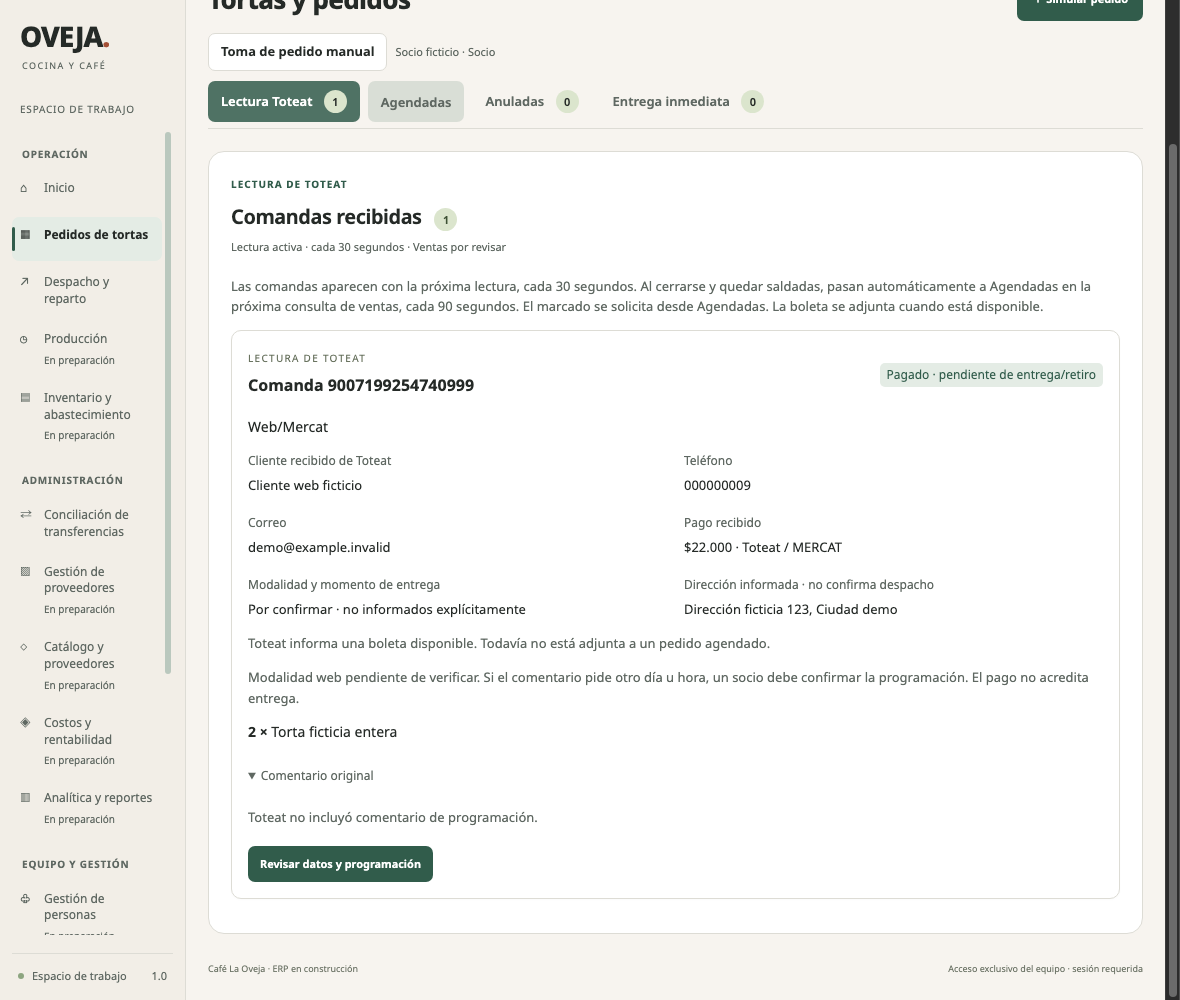
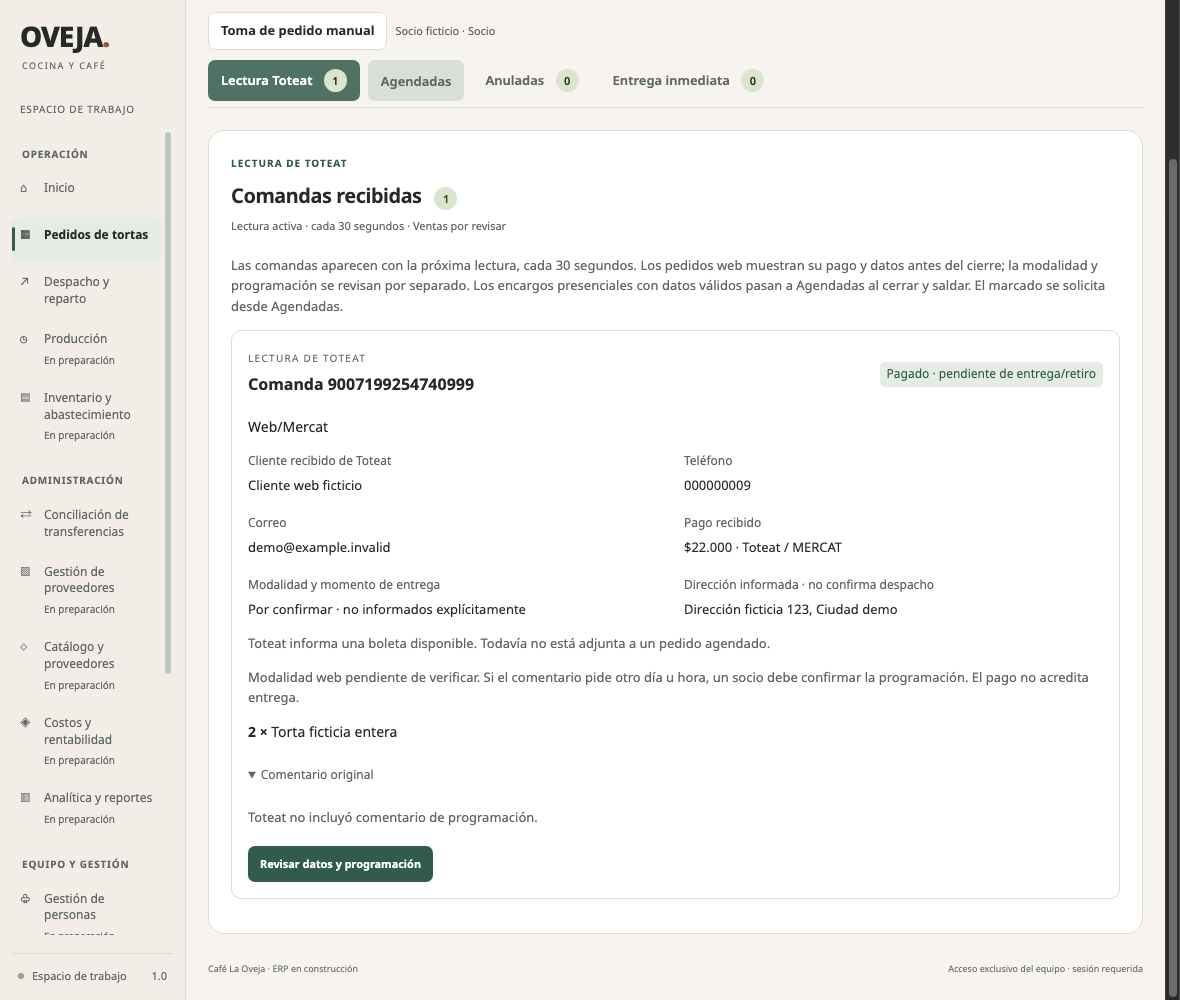
Keep delivery fee month changes separate from cake delivery filters

diff --git a/static/index.html b/static/index.html
@@ -48,7 +48,7 @@
     <header class="topbar"><div class="breadcrumb">OVEJA <span>/</span> <strong id="breadcrumb-module">Tortas y pedidos</strong></div><button id="account-button" class="account-summary" aria-label="Mi cuenta y cerrar sesión"><strong id="account-name"></strong><span id="account-role"></span></button><div class="notification-anchor"><button id="notification-bell" class="notification-bell" aria-label="Solicitudes de marcado: 0 pendientes" aria-expanded="false" aria-controls="notification-popup"><svg width="22" height="22" viewBox="0 0 24 24" fill="none" stroke="currentColor" stroke-width="1.7" aria-hidden="true"><path d="M18 8a6 6 0 0 0-12 0c0 7-3 7-3 9h18c0-2-3-2-3-9Z"/><path d="M10 21h4"/></svg><span id="notification-badge" class="notification-badge hidden">0</span></button><section id="notification-popup" class="notification-popup hidden" aria-labelledby="notification-title"><div class="notification-heading"><div><h2 id="notification-title">Solicitudes de marcado</h2><p id="notification-summary" aria-live="polite">Sin solicitudes pendientes</p></div><button id="notification-close" class="icon-button" aria-label="Cerrar notificaciones">×</button></div><div class="notification-settings"><button id="notification-sound" class="text-button" aria-pressed="false">Activar sonido</button><span id="notification-audio-status">Requiere activarlo en esta pestaña</span></div><div id="notification-list"></div><p id="notification-update-status" class="hint">Se actualiza cada 15 segundos.</p><p class="hint">Abrir una solicitud no marca la torta. Sigue pendiente hasta confirmar el marcado.</p></section></div></header>
     <main id="main">
       <nav id="module-mobile" class="module-mobile" aria-label="Módulos del ERP"></nav>
-      <section id="module-placeholder" class="module-placeholder hidden" aria-labelledby="module-title"><div class="eyebrow">ERP OVEJA · COCINA Y CAFÉ</div><h1 id="module-title"></h1><p class="module-subtitle">Un espacio para cada parte del negocio.</p><nav id="module-subtabs" class="module-subtabs" aria-label="Secciones del módulo"></nav><div id="home-workspace" class="hidden"></div><div id="delivery-workspace" class="hidden"><form id="delivery-filter" class="delivery-filter"><label class="field">Mes de consulta<input name="month" type="month" min="2026-09" required></label><button class="button primary" type="submit">Actualizar importes ↻</button><span id="delivery-sync-note" class="hint" role="status"></span></form><div id="delivery-results" aria-live="polite"></div></div><div id="transfer-workspace" class="hidden"><form id="transfer-filter" class="transfer-filters"><label>Desde<input name="start" type="date"></label><label>Hasta<input name="end" type="date"></label><label>Estado<select name="status"><option value="all">Todas las revisiones</option><option value="pending">Pendientes de revisión</option><option value="compatible">Datos compatibles</option><option value="review">Requieren revisión · todas</option><option value="reviewed">Revisadas por socio</option></select></label><label>Cajera<select name="cashier"><option value="">Todas las cajeras</option></select></label><button class="button secondary" type="submit">Actualizar</button><button class="button secondary" type="button" id="transfer-export">Descargar CSV</button></form><div id="transfer-results" aria-live="polite"></div></div><div class="module-empty"><div class="module-empty-icon" aria-hidden="true">▦</div><span class="timing-label">En preparación</span><h2 id="module-section-title"></h2><p>Este espacio todavía no tiene datos ni operaciones habilitadas.</p></div></section>
+      <section id="module-placeholder" class="module-placeholder hidden" aria-labelledby="module-title"><div class="eyebrow">ERP OVEJA · COCINA Y CAFÉ</div><h1 id="module-title"></h1><p class="module-subtitle">Un espacio para cada parte del negocio.</p><nav id="module-subtabs" class="module-subtabs" aria-label="Secciones del módulo"></nav><div id="home-workspace" class="hidden"></div><div id="delivery-workspace" class="hidden"><form id="fees-filter" class="delivery-filter"><label class="field">Mes de consulta<input name="month" type="month" min="2026-09" required></label><button class="button primary" type="submit">Actualizar importes ↻</button><span id="delivery-sync-note" class="hint" role="status"></span></form><div id="delivery-results" aria-live="polite"></div></div><div id="transfer-workspace" class="hidden"><form id="transfer-filter" class="transfer-filters"><label>Desde<input name="start" type="date"></label><label>Hasta<input name="end" type="date"></label><label>Estado<select name="status"><option value="all">Todas las revisiones</option><option value="pending">Pendientes de revisión</option><option value="compatible">Datos compatibles</option><option value="review">Requieren revisión · todas</option><option value="reviewed">Revisadas por socio</option></select></label><label>Cajera<select name="cashier"><option value="">Todas las cajeras</option></select></label><button class="button secondary" type="submit">Actualizar</button><button class="button secondary" type="button" id="transfer-export">Descargar CSV</button></form><div id="transfer-results" aria-live="polite"></div></div><div class="module-empty"><div class="module-empty-icon" aria-hidden="true">▦</div><span class="timing-label">En preparación</span><h2 id="module-section-title"></h2><p>Este espacio todavía no tiene datos ni operaciones habilitadas.</p></div></section>
       <div id="tortas-workspace">
       <div class="demo-banner"><span class="demo-tag">DEMO</span><span id="data-notice"><strong>Pedidos y conteos ficticios.</strong> Catálogo demo · sin conexión a Toteat.</span><span class="connection"><span class="status-dot"></span> Sin sincronización</span></div>
       <section class="page-heading"><div><div class="eyebrow">OVEJA · PEDIDOS Y PRODUCCIÓN</div><h1>Tortas y pedidos</h1><p>Agenda, entregas y coordinación de producción.</p></div><button id="new-order" class="button primary admin-only"><span aria-hidden="true">＋</span> Nuevo pedido demo</button></section>

diff --git a/static/delivery.js b/static/delivery.js
@@ -8,17 +8,17 @@ window.OvejaFees=(()=>{
   function reset(){sequence++;active=false;busy=false;snapshot=null;month='';lastLoad=0;lastError='';opened.clear();}
   function leave(){if(active){sequence++;active=false;busy=false;}}
   function enter(){
-    if(!state.partner){$('#delivery-filter').classList.add('hidden');$('#delivery-results').innerHTML='<p class="empty compact">Los importes de reparto están disponibles para socios.</p>';return;}
-    $('#delivery-filter').classList.remove('hidden');
+    if(!state.partner){$('#fees-filter').classList.add('hidden');$('#delivery-results').innerHTML='<p class="empty compact">Los importes de reparto están disponibles para socios.</p>';return;}
+    $('#fees-filter').classList.remove('hidden');
     const fresh=!active;active=true;
     if(!month)month=/^\d{4}-\d{2}$/.test(initialMonth||'')?initialMonth:state.board.today.slice(0,7);
-    $('#delivery-filter').elements.month.value=month;$('#delivery-filter').elements.month.max=state.board.today.slice(0,7);
+    $('#fees-filter').elements.month.value=month;$('#fees-filter').elements.month.max=state.board.today.slice(0,7);
     if(fresh)load(true);else if(Date.now()-lastLoad>10000)load(false);
   }
   async function load(refresh=false){
     if(busy||!visible())return;
     const request=++sequence;busy=true;
-    const button=$('#delivery-filter button');button.disabled=true;
+    const button=$('#fees-filter button');button.disabled=true;
     $('#delivery-sync-note').textContent=refresh?'Solicitando actualización…':'Consultando última lectura…';
     if(!snapshot)$('#delivery-results').innerHTML='<div class="empty compact">Preparando el resumen de reparto…</div>';
     try{
@@ -50,6 +50,6 @@ window.OvejaFees=(()=>{
   }
   function sourceStamp(value){return localStamp(/[zZ]$|[+-]\d\d:\d\d$/.test(value)?value:value+'Z');}
   document.addEventListener('toggle',event=>{const day=event.target;if(!day.matches?.('[data-fee-date]'))return;if(day.open)opened.add(day.dataset.feeDate);else opened.delete(day.dataset.feeDate);},true);
-  document.addEventListener('submit',event=>{if(event.target.id!=='delivery-filter')return;event.preventDefault();if(busy)return;const value=event.target.elements.month.value;if(value!==month){month=value;snapshot=null;opened.clear();}load(true);rememberView();});
+  document.addEventListener('submit',event=>{if(event.target.id!=='fees-filter')return;event.preventDefault();if(busy)return;const value=event.target.elements.month.value;if(value!==month){month=value;snapshot=null;opened.clear();}load(true);rememberView();});
   return {enter,leave,reset,get month(){return month;}};
 })();
